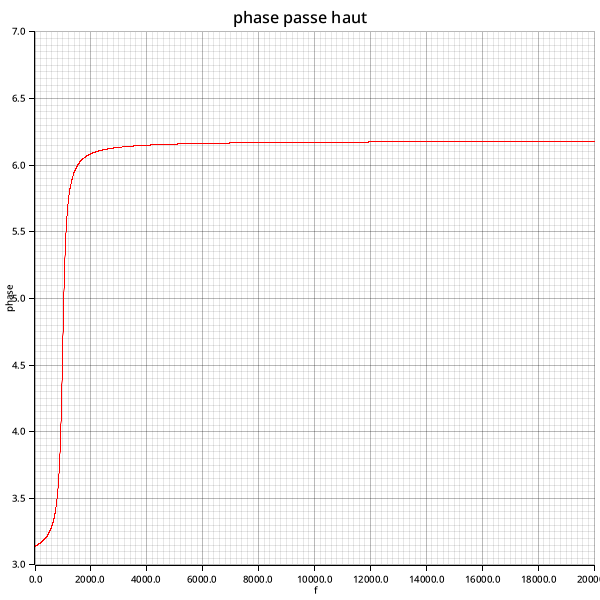
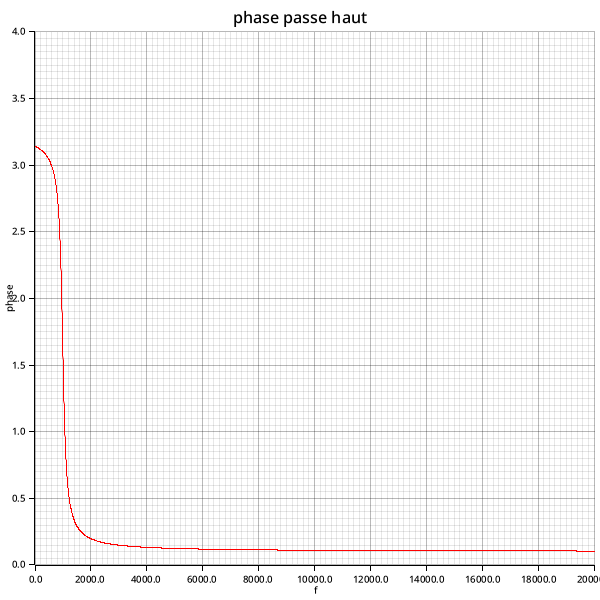
[CN5]: fix bug pass haut phase

Changed region(s): [[0.09, 0.6, 0.12, 0.84], [0.09, 0.3, 0.12, 0.54], [0.0, 0.03, 0.03, 0.06]]

diff --git a/CN_5_effet_filtrage/src/filtre.rs b/CN_5_effet_filtrage/src/filtre.rs
@@ -43,15 +43,23 @@ impl FiltreTrait for FiltrePasseHaut {
     fn phase_at(&self, f: f64) -> f64 {
         let pulsation = 2.0 * PI * f;
         let x = pulsation / self.omega0;
-        PI - if pulsation < self.omega0 {
+        let argh0 = if self.h0 < 0.0 {
+            0.0
+        } else if self.h0 > 0.0 {
+            PI
+        } else {
+            unreachable!("Arg(0) is not defined")
+        };
+        let phic = if pulsation < self.omega0 {
             -(x * (1.0 / self.q) / (1.0 - x)).atan()
         } else if pulsation > self.omega0 {
             -PI - (x * (1.0 / self.q) / (1.0 - x)).atan()
         } else if pulsation == self.omega0 {
             -PI / 2.0
         } else {
-            unreachable!()
-        }
+            unreachable!("w must be >0")
+        };
+        argh0 + phic
     }
 }
 
